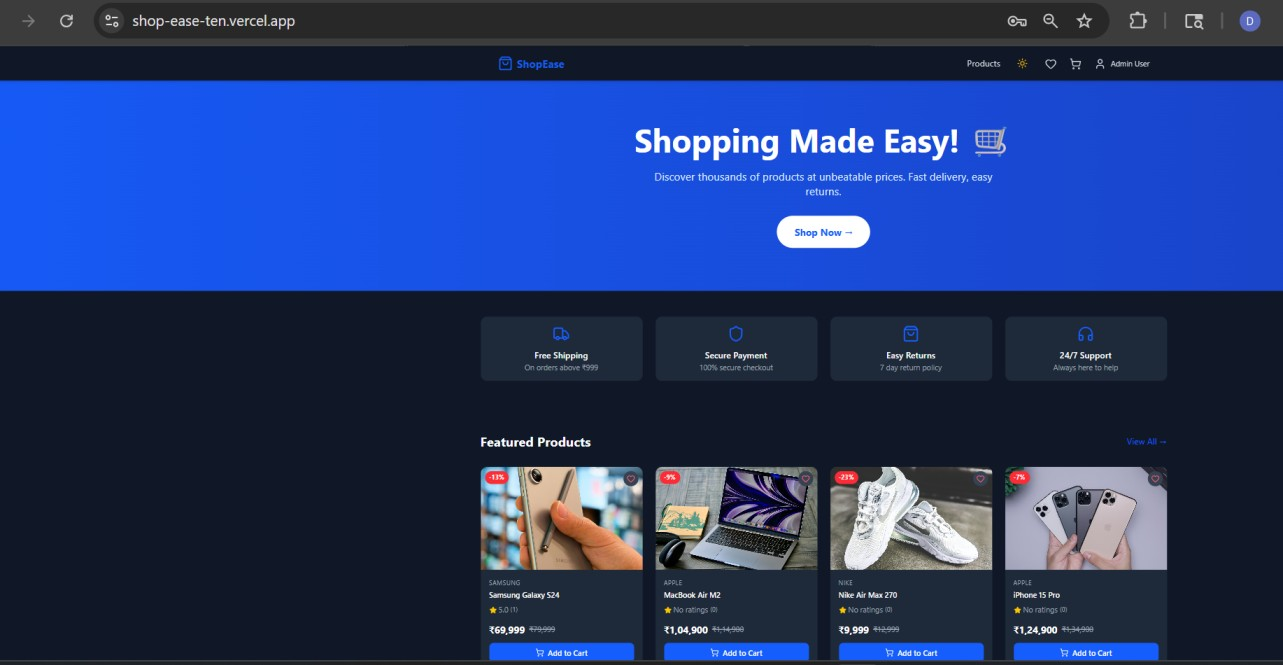
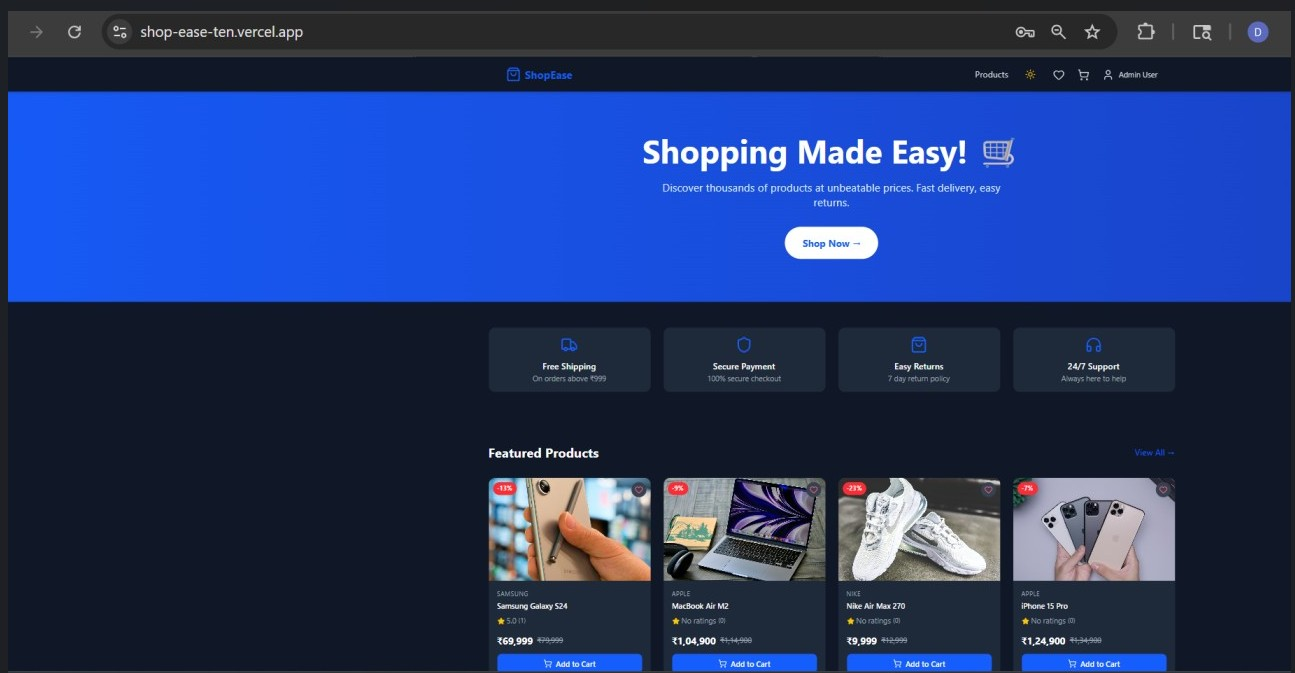
Added missing home and products screenshots change in README.MD file

diff --git a/README.md b/README.md
@@ -1,103 +1,180 @@
 # 🛒 ShopEase — Shopping Made Easy!
 
-A full-stack E-Commerce application built with the MERN stack, 
-featuring AI-powered product search, Razorpay payments, 
+A full-stack E-Commerce application built with the MERN stack,
+featuring AI-powered product search, Razorpay payments,
 and a complete admin dashboard.
+
+![ShopEase Banner](https://raw.githubusercontent.com/rahul-dudhrejiya/ShopEase/main/screenshots/home.png)
 
 ## 🌐 Live Demo
 
 | Platform | URL |
 |---|---|
-| Frontend | https://shop-ease-ten.vercel.app |
-| Backend API | https://shopease-backend-8brj.onrender.com |
+| 🌐 Frontend | https://shop-ease-ten.vercel.app |
+| ⚙ Backend API | https://shopease-backend-8brj.onrender.com |
 
 ## 🔐 Test Credentials
 
 | Role | Email | Password |
 |---|---|---|
-| Admin | admin@shopease.com | admin123 |
-| Customer | rahul@shopease.com | rahul123 |
+| 👑 Admin | admin@shopease.com | admin123 |
+| 👤 Customer | rahul@shopease.com | rahul123 |
 
 ## 🚀 Tech Stack
 
 ### Frontend
-- React.js + Vite
-- Tailwind CSS v4
-- React Router DOM
-- Context API (Auth + Cart + Theme)
-- Axios
-- Recharts
-- React Hot Toast
-- Lucide React
+- ⚛ React.js + Vite
+- 🎨 Tailwind CSS v4
+- 🔄 React Router DOM
+- 🌐 Context API (Auth + Cart + Theme)
+- 📡 Axios
+- 📊 Recharts
+- 🔔 React Hot Toast
+- 🎯 Lucide React Icons
 
 ### Backend
-- Node.js + Express.js
-- MongoDB + Mongoose
-- JWT Authentication
-- Bcrypt
-- Multer + Cloudinary
-- Razorpay
-- Nodemailer
-- Claude AI API
+- 🟢 Node.js + Express.js
+- 🍃 MongoDB + Mongoose
+- 🔐 JWT Authentication
+- 🔒 Bcrypt Password Hashing
+- ☁ Multer + Cloudinary
+- 💳 Razorpay Payment
+- 📧 Nodemailer
+- 🤖 Claude AI API
 
 ### Deployment
-- Frontend → Vercel
-- Backend → Render
-- Database → MongoDB Atlas
-- Images → Cloudinary
+- 🔺 Frontend → Vercel
+- 🟦 Backend → Render
+- 🍃 Database → MongoDB Atlas
+- ☁ Images → Cloudinary
 
 ## ✨ Features
 
-### Customer Features
-- Register/Login with JWT (HTTP-only cookies)
-- Browse all products with search + filter + pagination
-- Debounced search (500ms delay)
-- Product detail with image gallery
-- Add to cart + update quantity + remove
-- Apply coupon codes at checkout
-- Razorpay online payment
-- Order history with status tracking
-- Cancel orders
-- Product reviews and star ratings
-- Wishlist (save products for later)
-- User profile management
-- Dark/Light mode toggle
-- Fully responsive design
+### 👤 Customer Features
+- ✅ Register/Login with JWT (HTTP-only cookies)
+- ✅ Browse products with search + filter + pagination
+- ✅ Debounced search (500ms delay)
+- ✅ Product detail with image gallery + reviews
+- ✅ Add to cart + update quantity + remove
+- ✅ Apply coupon codes at checkout
+- ✅ Razorpay online payment integration
+- ✅ Order history with status tracking
+- ✅ Cancel orders
+- ✅ Product reviews and star ratings
+- ✅ Wishlist (save products for later)
+- ✅ User profile management
+- ✅ Dark/Light mode toggle
+- ✅ Fully responsive mobile design
 
-### Admin Features
-- Secure admin dashboard
-- Total revenue + orders + users + products stats
-- Monthly sales charts (Recharts)
-- Low stock alerts
-- Add/Delete products
-- AI-generated product descriptions
-- Manage all orders + update status
-- Ban/Unban users
+### 👑 Admin Features
+- ✅ Secure admin-only routes
+- ✅ Total revenue, orders, users, products stats
+- ✅ Monthly sales charts (Recharts)
+- ✅ Low stock alerts
+- ✅ Add/Delete products
+- ✅ Manage all orders + update status
+- ✅ Ban/Unban users
 
-### AI Features (Claude AI)
-- 🤖 AI Shopping Assistant (chat widget)
-- ✨ AI Product Description Generator
-- 🎯 Smart Product Recommendations
+### 🤖 AI Features (Claude AI)
+- ✅ AI Shopping Assistant (chat widget)
+- ✅ AI Product Description Generator
+- ✅ Smart Product Recommendations
+
+## 📸 Screenshots
+
+### 🏠 Home Page
+![Home Page](https://raw.githubusercontent.com/rahul-dudhrejiya/ShopEase/main/screenshots/home.jpg)
+
+### 📦 Products Page
+![Products](https://raw.githubusercontent.com/rahul-dudhrejiya/ShopEase/main/screenshots/products.jpg)
+
+### 📊 Admin Dashboard
+![Dashboard](https://raw.githubusercontent.com/rahul-dudhrejiya/ShopEase/main/screenshots/dashboard.jpg)
+
+### 🤖 AI Chat Assistant
+![AI Chat](https://raw.githubusercontent.com/rahul-dudhrejiya/ShopEase/main/screenshots/ai-chat.jpg)
 
 ## 📁 Project Structure
 
+```
 ShopEase/
 ├── backend/
-│   ├── config/          # DB + Cloudinary setup
-│   ├── controllers/     # Business logic
-│   ├── middleware/      # Auth + Admin + Error
-│   ├── models/          # Mongoose schemas
-│   ├── routes/          # API endpoints
-│   ├── utils/           # Helper functions
-│   └── server.js        # Entry point
+│   ├── config/
+│   │   ├── db.js              # MongoDB connection
+│   │   └── cloudinary.js      # Cloudinary setup
+│   ├── controllers/
+│   │   ├── authController.js
+│   │   ├── productController.js
+│   │   ├── cartController.js
+│   │   ├── orderController.js
+│   │   ├── paymentController.js
+│   │   ├── reviewController.js
+│   │   ├── wishlistController.js
+│   │   ├── couponController.js
+│   │   ├── adminController.js
+│   │   └── aiController.js
+│   ├── middleware/
+│   │   ├── authMiddleware.js
+│   │   ├── adminMiddleware.js
+│   │   └── errorMiddleware.js
+│   ├── models/
+│   │   ├── User.js
+│   │   ├── Product.js
+│   │   ├── Order.js
+│   │   ├── Cart.js
+│   │   ├── Review.js
+│   │   ├── Wishlist.js
+│   │   └── Coupon.js
+│   ├── routes/
+│   │   ├── authRoutes.js
+│   │   ├── productRoutes.js
+│   │   ├── cartRoutes.js
+│   │   ├── orderRoutes.js
+│   │   ├── paymentRoutes.js
+│   │   ├── reviewRoutes.js
+│   │   ├── wishlistRoutes.js
+│   │   ├── couponRoutes.js
+│   │   ├── adminRoutes.js
+│   │   └── aiRoutes.js
+│   ├── utils/
+│   │   ├── generateToken.js
+│   │   ├── sendEmail.js
+│   │   ├── apiFeatures.js
+│   │   └── seedProducts.js
+│   └── server.js
 ├── frontend/
 │   └── src/
-│       ├── api/         # Axios config
-│       ├── components/  # Reusable UI
-│       ├── context/     # Global state
-│       ├── pages/       # All pages
-│       └── App.jsx      # Router setup
+│       ├── api/
+│       │   └── axios.js
+│       ├── components/
+│       │   └── common/
+│       │       ├── Navbar.jsx
+│       │       ├── ProductCard.jsx
+│       │       ├── ProtectedRoute.jsx
+│       │       └── AIChatWidget.jsx
+│       ├── context/
+│       │   ├── AuthContext.jsx
+│       │   ├── CartContext.jsx
+│       │   └── ThemeContext.jsx
+│       ├── pages/
+│       │   ├── customer/
+│       │   │   ├── Home.jsx
+│       │   │   ├── Products.jsx
+│       │   │   ├── ProductDetail.jsx
+│       │   │   ├── Cart.jsx
+│       │   │   ├── Checkout.jsx
+│       │   │   ├── Orders.jsx
+│       │   │   ├── Wishlist.jsx
+│       │   │   ├── Profile.jsx
+│       │   │   ├── Login.jsx
+│       │   │   └── Register.jsx
+│       │   └── admin/
+│       │       ├── Dashboard.jsx
+│       │       ├── AddProduct.jsx
+│       │       └── ManageProducts.jsx
+│       └── App.jsx
 └── README.md
+```
 
 ## 🛠 Local Setup
 
@@ -106,14 +183,17 @@ ShopEase/
 - MongoDB Atlas account
 - Cloudinary account
 - Razorpay account
+- Claude AI API key
 
 ### Backend Setup
+
 ```bash
 cd backend
 npm install
 ```
 
 Create `backend/.env`:
+
 ```env
 PORT=5000
 NODE_ENV=development
@@ -138,12 +218,14 @@ npm run dev
 ```
 
 ### Frontend Setup
+
 ```bash
 cd frontend
 npm install
 ```
 
 Create `frontend/.env`:
+
 ```env
 VITE_API_URL=http://localhost:5000/api
 VITE_RAZORPAY_KEY_ID=your_razorpay_key
@@ -153,52 +235,54 @@ VITE_RAZORPAY_KEY_ID=your_razorpay_key
 npm run dev
 ```
 
-### Seed Sample Products
+### Add Sample Products
+
 ```bash
 cd backend
 node utils/seedProducts.js
 ```
 
-## 📸 Screenshots
-
-### Home Page
-![Home](https://via.placeholder.com/800x400?text=ShopEase+Home)
-
-### Admin Dashboard
-![Dashboard](https://via.placeholder.com/800x400?text=Admin+Dashboard)
-
-### AI Chat Assistant
-![AI Chat](https://via.placeholder.com/800x400?text=AI+Assistant)
-
 ## 🔗 API Endpoints
 
-| Method | Endpoint | Description |
-|---|---|---|
-| POST | /api/auth/register | Register user |
-| POST | /api/auth/login | Login user |
-| GET | /api/products | Get all products |
-| POST | /api/products | Add product (Admin) |
-| POST | /api/cart | Add to cart |
-| POST | /api/orders | Place order |
-| POST | /api/payment/create-order | Create Razorpay order |
-| POST | /api/ai/search | AI product search |
+| Method | Endpoint | Description | Access |
+|---|---|---|---|
+| POST | /api/auth/register | Register user | Public |
+| POST | /api/auth/login | Login user | Public |
+| GET | /api/products | Get all products | Public |
+| POST | /api/products | Add product | Admin |
+| DELETE | /api/products/:id | Delete product | Admin |
+| POST | /api/cart | Add to cart | Private |
+| GET | /api/cart | Get cart | Private |
+| POST | /api/orders | Place order | Private |
+| GET | /api/orders/my | Get my orders | Private |
+| POST | /api/payment/create-order | Create payment | Private |
+| POST | /api/payment/verify | Verify payment | Private |
+| POST | /api/reviews/:productId | Add review | Private |
+| POST | /api/wishlist/:productId | Toggle wishlist | Private |
+| POST | /api/coupons/apply | Apply coupon | Private |
+| GET | /api/admin/stats | Dashboard stats | Admin |
+| POST | /api/ai/search | AI product search | Public |
+| POST | /api/ai/generate-description | AI description | Admin |
 
-## 🎓 What I Learned
+## 🎓 Key Learnings
 
 - Full Stack MERN development
 - JWT authentication with HTTP-only cookies
+- Cross-domain cookie handling (sameSite: none)
 - Payment gateway integration (Razorpay)
-- Cloud storage (Cloudinary)
+- Cloud storage with Cloudinary
 - AI API integration (Claude)
-- MongoDB aggregation pipeline
-- React Context API for state management
+- MongoDB aggregation pipeline for analytics
+- React Context API for global state
+- Debouncing for search optimization
 - Deployment on Vercel + Render
 
 ## 👨💻 Developer
 
 **Rahul Dudharejiya**
-- GitHub: [@rahul-dudhrejiya](https://github.com/rahul-dudhrejiya)
+
+[![GitHub](https://img.shields.io/badge/GitHub-rahul--dudhrejiya-black?style=flat&logo=github)](https://github.com/rahul-dudhrejiya)
 
 ---
 
-⭐ Star this repo if you found it helpful!
+⭐ **Star this repo if you found it helpful!**
